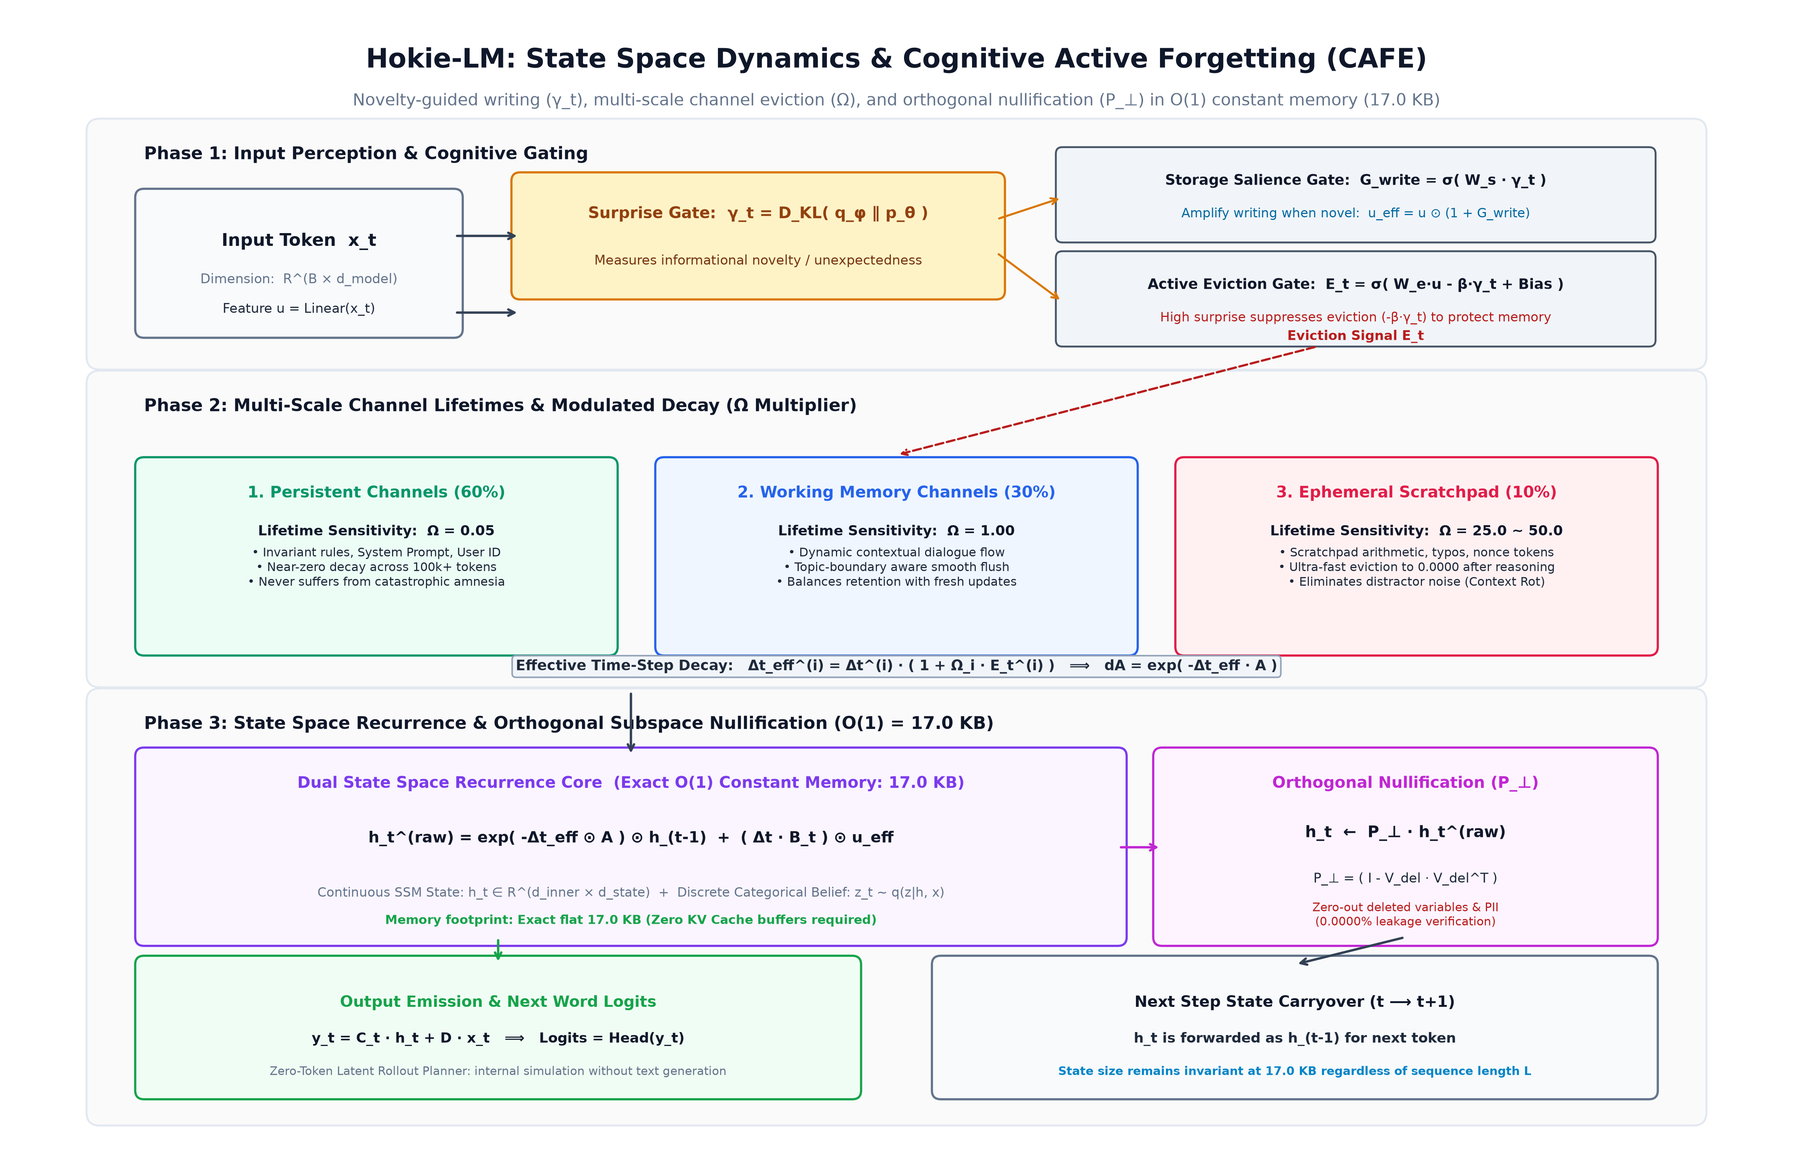
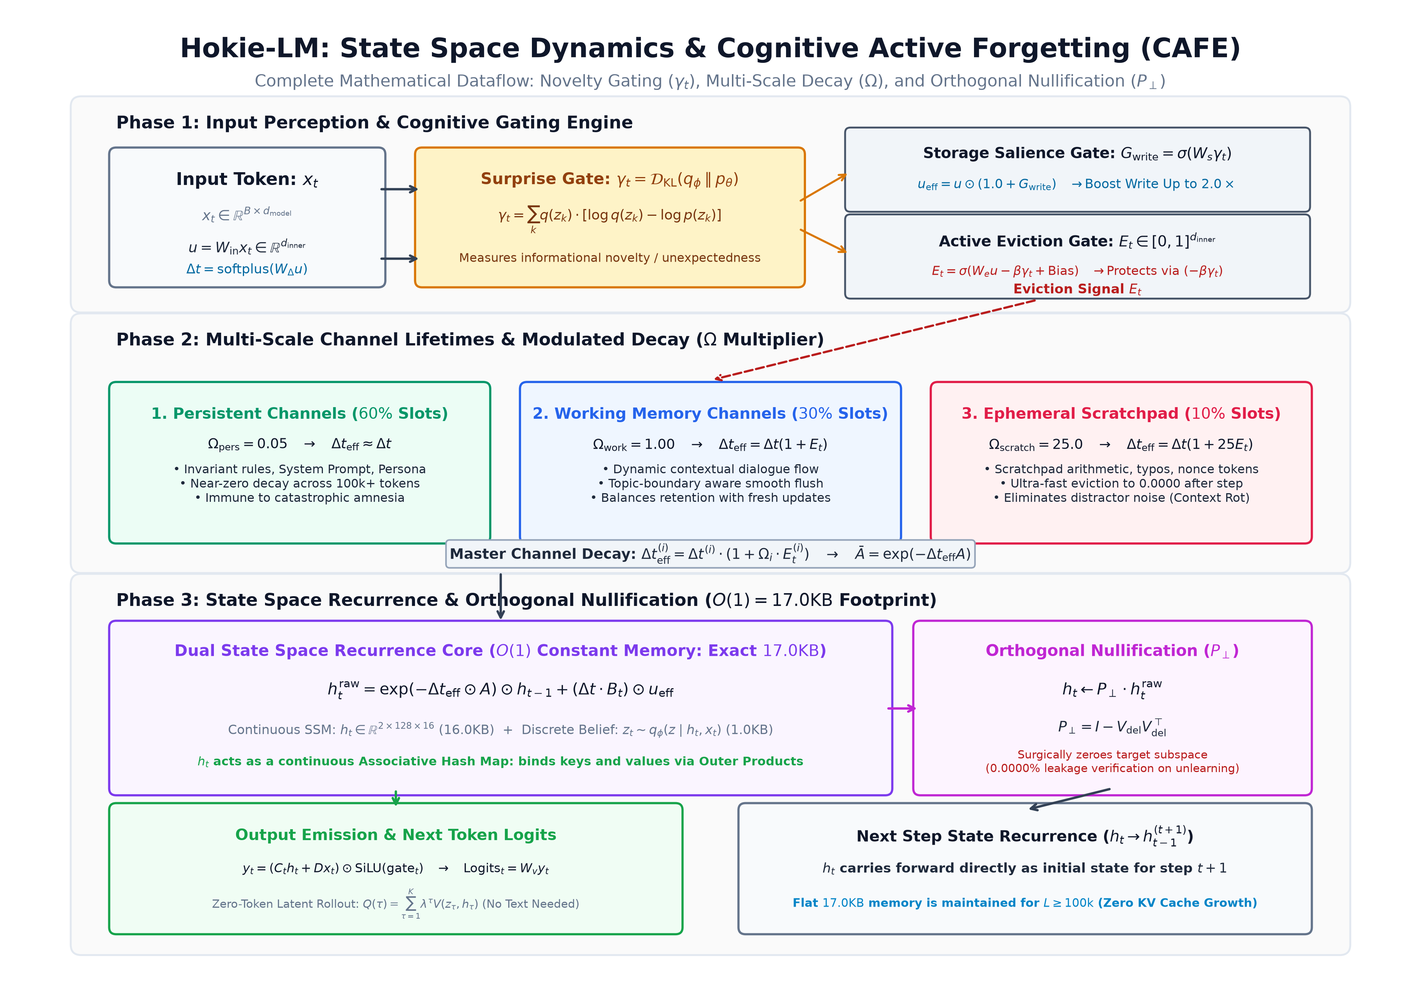
Enhance Fig 19 with rigorous mathematical formulas across all phases

diff --git a/scripts/draw_state_space_dataflow.py b/scripts/draw_state_space_dataflow.py
@@ -1,22 +1,21 @@
 #!/usr/bin/env python3
 """
-Publication-Grade Architecture Diagram Generator
+Publication-Grade Architecture Diagram Generator (Mathematical Edition)
 Hokie-LM: State Space Dynamics & Cognitive Active Forgetting (CAFE) Dataflow
-Outputs high-res publication figures to figures/ and paper/figures/
+Outputs high-res publication figures to figures/, paper/figures/, and presentation/figures/
 """
 
 import matplotlib.pyplot as plt
 import matplotlib.patches as patches
-import shutil
 import os
 
 def create_diagram():
-    # 16:9 Widescreen Aspect Ratio at 300 DPI
-    fig, ax = plt.subplots(figsize=(16, 10.5), dpi=300)
+    # 16:11 Aspect Ratio at 300 DPI for crystal clear publication quality
+    fig, ax = plt.subplots(figsize=(16, 11.2), dpi=300)
     fig.patch.set_facecolor('#FFFFFF')
     ax.set_facecolor('#FFFFFF')
     ax.set_xlim(0, 16)
-    ax.set_ylim(0, 10.5)
+    ax.set_ylim(0, 11.2)
     ax.axis('off')
 
     # Minimalist Academic Color Palette
@@ -55,188 +54,190 @@ def create_diagram():
     # -------------------------------------------------------------------------
     # HEADER SECTION
     # -------------------------------------------------------------------------
-    ax.text(8.0, 10.05, "Hokie-LM: State Space Dynamics & Cognitive Active Forgetting (CAFE)", 
+    ax.text(8.0, 10.75, "Hokie-LM: State Space Dynamics & Cognitive Active Forgetting (CAFE)", 
             ha='center', va='center', fontsize=17, fontweight='bold', color=c_dark)
-    ax.text(8.0, 9.68, "Novelty-guided writing (γ_t), multi-scale channel eviction (Ω), and orthogonal nullification (P_⊥) in O(1) constant memory (17.0 KB)", 
+    ax.text(8.0, 10.38, r"Complete Mathematical Dataflow: Novelty Gating ($\gamma_t$), Multi-Scale Decay ($\Omega$), and Orthogonal Nullification ($P_\perp$)", 
             ha='center', va='center', fontsize=10.5, color=c_muted)
 
     # -------------------------------------------------------------------------
     # 1. TOP SECTION: INPUT TOKEN & COGNITIVE SURPRISE DETECTION
     # -------------------------------------------------------------------------
-    # Outer container for Input & Gating
-    box_top = patches.FancyBboxPatch((0.8, 7.35), 14.4, 2.05, boxstyle="round,pad=0.12",
+    box_top = patches.FancyBboxPatch((0.8, 7.85), 14.4, 2.25, boxstyle="round,pad=0.12",
                                      facecolor='#FAFAFA', edgecolor='#E2E8F0', linewidth=1.2)
     ax.add_patch(box_top)
-    ax.text(1.2, 9.15, "Phase 1: Input Perception & Cognitive Gating", fontsize=11, fontweight='bold', color=c_dark)
+    ax.text(1.2, 9.85, "Phase 1: Input Perception & Cognitive Gating Engine", fontsize=11, fontweight='bold', color=c_dark)
 
     # Input Token Box
-    inp_box = patches.FancyBboxPatch((1.2, 7.6), 2.8, 1.2, boxstyle="round,pad=0.08",
+    inp_box = patches.FancyBboxPatch((1.2, 8.1), 3.0, 1.45, boxstyle="round,pad=0.08",
                                      facecolor=c_input_bg, edgecolor=c_input_bdr, linewidth=1.4)
     ax.add_patch(inp_box)
-    ax.text(2.6, 8.4, "Input Token  x_t", ha='center', va='center', fontsize=11, fontweight='bold', color=c_dark)
-    ax.text(2.6, 8.05, "Dimension:  R^(B × d_model)", ha='center', va='center', fontsize=8.5, color=c_muted)
-    ax.text(2.6, 7.78, "Feature u = Linear(x_t)", ha='center', va='center', fontsize=8.5, color=c_body)
+    ax.text(2.7, 9.25, r"Input Token: $x_t$", ha='center', va='center', fontsize=11, fontweight='bold', color=c_dark)
+    ax.text(2.7, 8.85, r"$x_t \in \mathbb{R}^{B \times d_{\mathrm{model}}}$", ha='center', va='center', fontsize=9.2, color=c_muted)
+    ax.text(2.7, 8.48, r"$u = W_{\mathrm{in}} x_t \in \mathbb{R}^{d_{\mathrm{inner}}}$", ha='center', va='center', fontsize=9.2, fontweight='bold', color=c_body)
+    ax.text(2.7, 8.22, r"$\Delta t = \mathrm{softplus}(W_{\Delta} u)$", ha='center', va='center', fontsize=8.5, color='#0369A1')
 
-    # Arrow from Input to Surprise Gate & Direct Feature
-    ax.annotate("", xy=(4.6, 8.45), xytext=(4.0, 8.45), arrowprops=dict(arrowstyle="->", color=c_arrow, lw=1.5))
-    ax.annotate("", xy=(4.6, 7.75), xytext=(4.0, 7.75), arrowprops=dict(arrowstyle="->", color=c_arrow, lw=1.5))
+    # Arrow from Input to Surprise Gate & Feature
+    ax.annotate("", xy=(4.7, 9.15), xytext=(4.2, 9.15), arrowprops=dict(arrowstyle="->", color=c_arrow, lw=1.5))
+    ax.annotate("", xy=(4.7, 8.35), xytext=(4.2, 8.35), arrowprops=dict(arrowstyle="->", color=c_arrow, lw=1.5))
 
     # Surprise Gate Box
-    surp_box = patches.FancyBboxPatch((4.6, 7.95), 4.3, 1.0, boxstyle="round,pad=0.08",
+    surp_box = patches.FancyBboxPatch((4.7, 8.1), 4.3, 1.45, boxstyle="round,pad=0.08",
                                       facecolor=c_surprise_bg, edgecolor=c_surprise_bdr, linewidth=1.4)
     ax.add_patch(surp_box)
-    ax.text(6.75, 8.65, "Surprise Gate:  γ_t = D_KL( q_φ ∥ p_θ )", ha='center', va='center',
-            fontsize=10.0, fontweight='bold', color='#92400E')
-    ax.text(6.75, 8.22, "Measures informational novelty / unexpectedness", ha='center', va='center',
-            fontsize=8.5, color='#78350F')
+    ax.text(6.85, 9.25, r"Surprise Gate: $\gamma_t = \mathcal{D}_{\mathrm{KL}}(q_\phi \parallel p_\theta)$", ha='center', va='center',
+            fontsize=10.2, fontweight='bold', color='#92400E')
+    ax.text(6.85, 8.80, r"$\gamma_t = \sum_k q(z_k) \cdot [ \log q(z_k) - \log p(z_k) ]$", ha='center', va='center',
+            fontsize=8.8, fontweight='bold', color='#78350F')
+    ax.text(6.85, 8.35, "Measures informational novelty / unexpectedness", ha='center', va='center',
+            fontsize=7.8, color='#78350F')
 
     # Salience & Eviction Gates
     # Storage Salience Gate
-    sal_box = patches.FancyBboxPatch((9.5, 8.45), 5.3, 0.75, boxstyle="round,pad=0.06",
+    sal_box = patches.FancyBboxPatch((9.6, 8.95), 5.2, 0.85, boxstyle="round,pad=0.06",
                                      facecolor=c_gate_bg, edgecolor=c_gate_bdr, linewidth=1.2)
     ax.add_patch(sal_box)
-    ax.text(12.15, 8.95, "Storage Salience Gate:  G_write = σ( W_s · γ_t )", ha='center', va='center',
-            fontsize=9.2, fontweight='bold', color=c_dark)
-    ax.text(12.15, 8.65, "Amplify writing when novel:  u_eff = u ⊙ (1 + G_write)", ha='center', va='center',
-            fontsize=8.2, color='#0369A1')
+    ax.text(12.2, 9.55, r"Storage Salience Gate: $G_{\mathrm{write}} = \sigma(W_s \gamma_t)$", ha='center', va='center',
+            fontsize=9.5, fontweight='bold', color=c_dark)
+    ax.text(12.2, 9.20, r"$u_{\mathrm{eff}} = u \odot (1.0 + G_{\mathrm{write}}) \quad \rightarrow \text{Boost Write Up to } 2.0\times$", ha='center', va='center',
+            fontsize=8.2, fontweight='bold', color='#0369A1')
 
     # Eviction Gate
-    evict_box = patches.FancyBboxPatch((9.5, 7.5), 5.3, 0.75, boxstyle="round,pad=0.06",
+    evict_box = patches.FancyBboxPatch((9.6, 7.95), 5.2, 0.85, boxstyle="round,pad=0.06",
                                        facecolor=c_gate_bg, edgecolor=c_gate_bdr, linewidth=1.2)
     ax.add_patch(evict_box)
-    ax.text(12.15, 8.0, "Active Eviction Gate:  E_t = σ( W_e·u - β·γ_t + Bias )", ha='center', va='center',
-            fontsize=9.2, fontweight='bold', color=c_dark)
-    ax.text(12.15, 7.7, "High surprise suppresses eviction (-β·γ_t) to protect memory", ha='center', va='center',
-            fontsize=8.2, color='#B91C1C')
+    ax.text(12.2, 8.55, r"Active Eviction Gate: $E_t \in [0, 1]^{d_{\mathrm{inner}}}$", ha='center', va='center',
+            fontsize=9.5, fontweight='bold', color=c_dark)
+    ax.text(12.2, 8.20, r"$E_t = \sigma(W_e u - \beta \gamma_t + \mathrm{Bias}) \quad \rightarrow \text{Protects via } (-\beta \gamma_t)$", ha='center', va='center',
+            fontsize=8.0, fontweight='bold', color='#B91C1C')
 
     # Connect Surprise to Gates
-    ax.annotate("", xy=(9.5, 8.8), xytext=(8.9, 8.6), arrowprops=dict(arrowstyle="->", color=c_surprise_bdr, lw=1.3))
-    ax.annotate("", xy=(9.5, 7.85), xytext=(8.9, 8.3), arrowprops=dict(arrowstyle="->", color=c_surprise_bdr, lw=1.3))
+    ax.annotate("", xy=(9.6, 9.35), xytext=(9.0, 9.0), arrowprops=dict(arrowstyle="->", color=c_surprise_bdr, lw=1.3))
+    ax.annotate("", xy=(9.6, 8.40), xytext=(9.0, 8.7), arrowprops=dict(arrowstyle="->", color=c_surprise_bdr, lw=1.3))
 
     # -------------------------------------------------------------------------
     # 2. MIDDLE SECTION: MULTI-SCALE CHANNEL LIFETIMES (Ω PARTITIONING)
     # -------------------------------------------------------------------------
-    box_mid = patches.FancyBboxPatch((0.8, 4.45), 14.4, 2.65, boxstyle="round,pad=0.12",
+    box_mid = patches.FancyBboxPatch((0.8, 4.85), 14.4, 2.75, boxstyle="round,pad=0.12",
                                      facecolor='#FAFAFA', edgecolor='#E2E8F0', linewidth=1.2)
     ax.add_patch(box_mid)
-    ax.text(1.2, 6.85, "Phase 2: Multi-Scale Channel Lifetimes & Modulated Decay (Ω Multiplier)", 
+    ax.text(1.2, 7.35, r"Phase 2: Multi-Scale Channel Lifetimes & Modulated Decay ($\Omega$ Multiplier)", 
             fontsize=11, fontweight='bold', color=c_dark)
 
-    # Eviction Gate vector downward distribution
-    ax.annotate("Eviction Signal E_t", xy=(8.0, 6.45), xytext=(12.15, 7.5),
+    # Eviction Gate downward arrow
+    ax.annotate(r"Eviction Signal $E_t$", xy=(8.0, 6.95), xytext=(12.2, 7.95),
                 arrowprops=dict(arrowstyle="->", color='#B91C1C', lw=1.4, linestyle='--'),
                 fontsize=8.5, fontweight='bold', color='#B91C1C', ha='center')
 
     # 3 Channels Columns
     # Channel 1: Persistent
-    ch1_box = patches.FancyBboxPatch((1.2, 4.7), 4.2, 1.65, boxstyle="round,pad=0.08",
+    ch1_box = patches.FancyBboxPatch((1.2, 5.15), 4.2, 1.70, boxstyle="round,pad=0.08",
                                      facecolor=c_pers_bg, edgecolor=c_pers_bdr, linewidth=1.4)
     ax.add_patch(ch1_box)
-    ax.text(3.3, 6.1, "1. Persistent Channels (60%)", ha='center', va='center',
-            fontsize=10.0, fontweight='bold', color=c_pers_bdr)
-    ax.text(3.3, 5.75, "Lifetime Sensitivity:  Ω = 0.05", ha='center', va='center',
+    ax.text(3.3, 6.55, r"1. Persistent Channels ($60\%$ Slots)", ha='center', va='center',
+            fontsize=9.8, fontweight='bold', color=c_pers_bdr)
+    ax.text(3.3, 6.20, r"$\Omega_{\mathrm{pers}} = 0.05 \quad \rightarrow \quad \Delta t_{\mathrm{eff}} \approx \Delta t$", ha='center', va='center',
             fontsize=8.8, fontweight='bold', color=c_dark)
-    ax.text(3.3, 5.42, "• Invariant rules, System Prompt, User ID\n• Near-zero decay across 100k+ tokens\n• Never suffers from catastrophic amnesia",
-            ha='center', va='center', fontsize=7.8, color=c_body)
+    ax.text(3.3, 5.75, "• Invariant rules, System Prompt, Persona\n• Near-zero decay across 100k+ tokens\n• Immune to catastrophic amnesia",
+            ha='center', va='center', fontsize=7.6, color=c_body)
 
     # Channel 2: Working Memory
-    ch2_box = patches.FancyBboxPatch((5.9, 4.7), 4.2, 1.65, boxstyle="round,pad=0.08",
+    ch2_box = patches.FancyBboxPatch((5.9, 5.15), 4.2, 1.70, boxstyle="round,pad=0.08",
                                      facecolor=c_work_bg, edgecolor=c_work_bdr, linewidth=1.4)
     ax.add_patch(ch2_box)
-    ax.text(8.0, 6.1, "2. Working Memory Channels (30%)", ha='center', va='center',
-            fontsize=10.0, fontweight='bold', color=c_work_bdr)
-    ax.text(8.0, 5.75, "Lifetime Sensitivity:  Ω = 1.00", ha='center', va='center',
+    ax.text(8.0, 6.55, r"2. Working Memory Channels ($30\%$ Slots)", ha='center', va='center',
+            fontsize=9.8, fontweight='bold', color=c_work_bdr)
+    ax.text(8.0, 6.20, r"$\Omega_{\mathrm{work}} = 1.00 \quad \rightarrow \quad \Delta t_{\mathrm{eff}} = \Delta t (1 + E_t)$", ha='center', va='center',
             fontsize=8.8, fontweight='bold', color=c_dark)
-    ax.text(8.0, 5.42, "• Dynamic contextual dialogue flow\n• Topic-boundary aware smooth flush\n• Balances retention with fresh updates",
-            ha='center', va='center', fontsize=7.8, color=c_body)
+    ax.text(8.0, 5.75, "• Dynamic contextual dialogue flow\n• Topic-boundary aware smooth flush\n• Balances retention with fresh updates",
+            ha='center', va='center', fontsize=7.6, color=c_body)
 
     # Channel 3: Ephemeral Scratchpad
-    ch3_box = patches.FancyBboxPatch((10.6, 4.7), 4.2, 1.65, boxstyle="round,pad=0.08",
+    ch3_box = patches.FancyBboxPatch((10.6, 5.15), 4.2, 1.70, boxstyle="round,pad=0.08",
                                      facecolor=c_scratch_bg, edgecolor=c_scratch_bdr, linewidth=1.4)
     ax.add_patch(ch3_box)
-    ax.text(12.7, 6.1, "3. Ephemeral Scratchpad (10%)", ha='center', va='center',
-            fontsize=10.0, fontweight='bold', color=c_scratch_bdr)
-    ax.text(12.7, 5.75, "Lifetime Sensitivity:  Ω = 25.0 ~ 50.0", ha='center', va='center',
+    ax.text(12.7, 6.55, r"3. Ephemeral Scratchpad ($10\%$ Slots)", ha='center', va='center',
+            fontsize=9.8, fontweight='bold', color=c_scratch_bdr)
+    ax.text(12.7, 6.20, r"$\Omega_{\mathrm{scratch}} = 25.0 \quad \rightarrow \quad \Delta t_{\mathrm{eff}} = \Delta t (1 + 25 E_t)$", ha='center', va='center',
             fontsize=8.8, fontweight='bold', color=c_dark)
-    ax.text(12.7, 5.42, "• Scratchpad arithmetic, typos, nonce tokens\n• Ultra-fast eviction to 0.0000 after reasoning\n• Eliminates distractor noise (Context Rot)",
-            ha='center', va='center', fontsize=7.8, color=c_body)
+    ax.text(12.7, 5.75, "• Scratchpad arithmetic, typos, nonce tokens\n• Ultra-fast eviction to 0.0000 after step\n• Eliminates distractor noise (Context Rot)",
+            ha='center', va='center', fontsize=7.6, color=c_body)
 
     # Modulated Effective Step Formula Banner
-    ax.text(8.0, 4.52, "Effective Time-Step Decay:   Δt_eff^(i) = Δt^(i) · ( 1 + Ω_i · E_t^(i) )   ⟹   dA = exp( -Δt_eff · A )",
+    ax.text(8.0, 4.95, r"Master Channel Decay: $\Delta t_{\mathrm{eff}}^{(i)} = \Delta t^{(i)} \cdot ( 1 + \Omega_i \cdot E_t^{(i)} ) \quad \rightarrow \quad \bar{A} = \exp( -\Delta t_{\mathrm{eff}} A )$",
             ha='center', va='center', fontsize=9.2, fontweight='bold', color='#1E293B',
             bbox=dict(boxstyle="round,pad=0.25", facecolor='#F1F5F9', edgecolor='#94A3B8', lw=1.0))
 
     # -------------------------------------------------------------------------
     # 3. BOTTOM SECTION: STATE UPDATE, ORTHOGONAL NULLIFICATION & EMISSION
     # -------------------------------------------------------------------------
-    box_bot = patches.FancyBboxPatch((0.8, 0.45), 14.4, 3.75, boxstyle="round,pad=0.12",
+    box_bot = patches.FancyBboxPatch((0.8, 0.45), 14.4, 4.15, boxstyle="round,pad=0.12",
                                      facecolor='#FAFAFA', edgecolor='#E2E8F0', linewidth=1.2)
     ax.add_patch(box_bot)
-    ax.text(1.2, 3.95, "Phase 3: State Space Recurrence & Orthogonal Subspace Nullification (O(1) = 17.0 KB)", 
+    ax.text(1.2, 4.35, r"Phase 3: State Space Recurrence & Orthogonal Nullification ($O(1) = 17.0\mathrm{ KB}$ Footprint)", 
             fontsize=11, fontweight='bold', color=c_dark)
 
     # State Core Block
-    core_box = patches.FancyBboxPatch((1.2, 2.05), 8.8, 1.65, boxstyle="round,pad=0.08",
+    core_box = patches.FancyBboxPatch((1.2, 2.25), 8.8, 1.85, boxstyle="round,pad=0.08",
                                       facecolor=c_core_bg, edgecolor=c_core_bdr, linewidth=1.4)
     ax.add_patch(core_box)
-    ax.text(5.6, 3.45, "Dual State Space Recurrence Core  (Exact O(1) Constant Memory: 17.0 KB)", 
+    ax.text(5.6, 3.82, r"Dual State Space Recurrence Core ($O(1)$ Constant Memory: Exact $17.0\mathrm{ KB}$)", 
             ha='center', va='center', fontsize=10.2, fontweight='bold', color=c_core_bdr)
 
     # Mathematical Equation inside Core
-    ax.text(5.6, 2.95, "h_t^(raw) = exp( -Δt_eff ⊙ A ) ⊙ h_(t-1)  +  ( Δt · B_t ) ⊙ u_eff", 
-            ha='center', va='center', fontsize=9.8, fontweight='bold', color=c_dark)
-    ax.text(5.6, 2.45, "Continuous SSM State: h_t ∈ R^(d_inner × d_state)  +  Discrete Categorical Belief: z_t ~ q(z|h, x)", 
+    ax.text(5.6, 3.38, r"$h_t^{\mathrm{raw}} = \exp( -\Delta t_{\mathrm{eff}} \odot A ) \odot h_{t-1} + ( \Delta t \cdot B_t ) \odot u_{\mathrm{eff}}$", 
+            ha='center', va='center', fontsize=10.2, fontweight='bold', color=c_dark)
+    ax.text(5.6, 2.92, r"Continuous SSM: $h_t \in \mathbb{R}^{2 \times 128 \times 16}$ ($16.0\mathrm{ KB}$)  $+$  Discrete Belief: $z_t \sim q_\phi(z \mid h_t, x_t)$ ($1.0\mathrm{ KB}$)", 
             ha='center', va='center', fontsize=8.2, color=c_muted)
-    ax.text(5.6, 2.20, "Memory footprint: Exact flat 17.0 KB (Zero KV Cache buffers required)", 
-            ha='center', va='center', fontsize=8.0, fontweight='bold', color='#16A34A')
+    ax.text(5.6, 2.55, r"$h_t$ acts as a continuous Associative Hash Map: binds keys and values via Outer Products", 
+            ha='center', va='center', fontsize=7.8, fontweight='bold', color='#16A34A')
 
     # Connect Phase 2 to Core
-    ax.annotate("", xy=(5.6, 3.7), xytext=(5.6, 4.3), arrowprops=dict(arrowstyle="->", color=c_arrow, lw=1.5))
+    ax.annotate("", xy=(5.6, 4.15), xytext=(5.6, 4.75), arrowprops=dict(arrowstyle="->", color=c_arrow, lw=1.5))
 
     # Orthogonal Nullification Block
-    proj_box = patches.FancyBboxPatch((10.4, 2.05), 4.4, 1.65, boxstyle="round,pad=0.08",
+    proj_box = patches.FancyBboxPatch((10.4, 2.25), 4.4, 1.85, boxstyle="round,pad=0.08",
                                       facecolor=c_proj_bg, edgecolor=c_proj_bdr, linewidth=1.4)
     ax.add_patch(proj_box)
-    ax.text(12.6, 3.45, "Orthogonal Nullification (P_⊥)", ha='center', va='center',
+    ax.text(12.6, 3.82, r"Orthogonal Nullification ($P_\perp$)", ha='center', va='center',
             fontsize=10.0, fontweight='bold', color=c_proj_bdr)
-    ax.text(12.6, 3.0, "h_t  ←  P_⊥ · h_t^(raw)", ha='center', va='center',
-            fontsize=10.0, fontweight='bold', color=c_dark)
-    ax.text(12.6, 2.58, "P_⊥ = ( I - V_del · V_del^T )", ha='center', va='center',
-            fontsize=8.5, color=c_body)
-    ax.text(12.6, 2.25, "Zero-out deleted variables & PII\n(0.0000% leakage verification)", 
-            ha='center', va='center', fontsize=7.5, color='#B91C1C')
+    ax.text(12.6, 3.38, r"$h_t \leftarrow P_\perp \cdot h_t^{\mathrm{raw}}$", ha='center', va='center',
+            fontsize=10.2, fontweight='bold', color=c_dark)
+    ax.text(12.6, 2.95, r"$P_\perp = I - V_{\mathrm{del}} V_{\mathrm{del}}^\top$", ha='center', va='center',
+            fontsize=9.0, fontweight='bold', color=c_body)
+    ax.text(12.6, 2.55, "Surgically zeroes target subspace\n(0.0000% leakage verification on unlearning)", 
+            ha='center', va='center', fontsize=7.2, color='#B91C1C')
 
     # Arrow from Core to Orthogonal Nullification
-    ax.annotate("", xy=(10.4, 2.87), xytext=(10.0, 2.87), arrowprops=dict(arrowstyle="->", color=c_proj_bdr, lw=1.5))
+    ax.annotate("", xy=(10.4, 3.17), xytext=(10.0, 3.17), arrowprops=dict(arrowstyle="->", color=c_proj_bdr, lw=1.5))
 
     # Output Generation & Next Step Loops
     # Output Block
-    out_box = patches.FancyBboxPatch((1.2, 0.65), 6.4, 1.15, boxstyle="round,pad=0.08",
+    out_box = patches.FancyBboxPatch((1.2, 0.65), 6.4, 1.35, boxstyle="round,pad=0.08",
                                      facecolor=c_out_bg, edgecolor=c_out_bdr, linewidth=1.4)
     ax.add_patch(out_box)
-    ax.text(4.4, 1.45, "Output Emission & Next Word Logits", ha='center', va='center',
+    ax.text(4.4, 1.70, "Output Emission & Next Token Logits", ha='center', va='center',
             fontsize=9.8, fontweight='bold', color=c_out_bdr)
-    ax.text(4.4, 1.12, "y_t = C_t · h_t + D · x_t   ⟹   Logits = Head(y_t)", ha='center', va='center',
-            fontsize=8.8, fontweight='bold', color=c_dark)
-    ax.text(4.4, 0.82, "Zero-Token Latent Rollout Planner: internal simulation without text generation", 
-            ha='center', va='center', fontsize=7.5, color=c_muted)
+    ax.text(4.4, 1.32, r"$y_t = (C_t h_t + D x_t) \odot \mathrm{SiLU}(\mathrm{gate}_t) \quad \rightarrow \quad \mathrm{Logits}_t = W_v y_t$", ha='center', va='center',
+            fontsize=8.0, fontweight='bold', color=c_dark)
+    ax.text(4.4, 0.92, r"Zero-Token Latent Rollout: $Q(\tau) = \sum_{\tau=1}^K \lambda^\tau V(z_\tau, h_\tau)$ (No Text Needed)", 
+            ha='center', va='center', fontsize=7.2, color=c_muted)
 
     # Carryover Block
-    carry_box = patches.FancyBboxPatch((8.4, 0.65), 6.4, 1.15, boxstyle="round,pad=0.08",
+    carry_box = patches.FancyBboxPatch((8.4, 0.65), 6.4, 1.35, boxstyle="round,pad=0.08",
                                        facecolor='#F8FAFC', edgecolor='#64748B', linewidth=1.4)
     ax.add_patch(carry_box)
-    ax.text(11.6, 1.45, "Next Step State Carryover (t ⟶ t+1)", ha='center', va='center',
+    ax.text(11.6, 1.70, r"Next Step State Recurrence ($h_t \rightarrow h_{t-1}^{(t+1)}$)", ha='center', va='center',
             fontsize=9.8, fontweight='bold', color=c_dark)
-    ax.text(11.6, 1.12, "h_t is forwarded as h_(t-1) for next token", ha='center', va='center',
-            fontsize=8.8, fontweight='bold', color=c_body)
-    ax.text(11.6, 0.82, "State size remains invariant at 17.0 KB regardless of sequence length L", 
+    ax.text(11.6, 1.32, r"$h_t$ carries forward directly as initial state for step $t+1$", ha='center', va='center',
+            fontsize=8.5, fontweight='bold', color=c_body)
+    ax.text(11.6, 0.92, r"Flat $17.0\mathrm{ KB}$ memory is maintained for $L \geq 100\mathrm{k}$ (Zero KV Cache Growth)", 
             ha='center', va='center', fontsize=7.5, fontweight='bold', color='#0284C7')
 
     # Connect Core / Projection to Outputs
-    ax.annotate("", xy=(4.4, 1.8), xytext=(4.4, 2.05), arrowprops=dict(arrowstyle="->", color=c_out_bdr, lw=1.5))
-    ax.annotate("", xy=(11.6, 1.8), xytext=(12.6, 2.05), arrowprops=dict(arrowstyle="->", color=c_arrow, lw=1.5))
+    ax.annotate("", xy=(4.4, 2.0), xytext=(4.4, 2.25), arrowprops=dict(arrowstyle="->", color=c_out_bdr, lw=1.5))
+    ax.annotate("", xy=(11.6, 2.0), xytext=(12.6, 2.25), arrowprops=dict(arrowstyle="->", color=c_arrow, lw=1.5))
 
-    # Save to both paths
+    # Save to all target paths
     os.makedirs("figures", exist_ok=True)
     os.makedirs("paper/figures", exist_ok=True)
     os.makedirs("presentation/figures", exist_ok=True)
@@ -245,15 +246,14 @@ def create_diagram():
     out_path2 = "paper/figures/fig19_state_space_cafe_dataflow.png"
     out_path3 = "presentation/figures/fig19_state_space_cafe_dataflow.png"
 
-    plt.tight_layout()
     plt.savefig(out_path1, dpi=300, facecolor=fig.get_facecolor(), edgecolor='none', bbox_inches='tight')
     plt.savefig(out_path2, dpi=300, facecolor=fig.get_facecolor(), edgecolor='none', bbox_inches='tight')
     plt.savefig(out_path3, dpi=300, facecolor=fig.get_facecolor(), edgecolor='none', bbox_inches='tight')
     plt.close()
 
-    print(f"✅ Generated: {out_path1}")
-    print(f"✅ Generated: {out_path2}")
-    print(f"✅ Generated: {out_path3}")
+    print(f"✅ Generated with complete LaTeX math: {out_path1}")
+    print(f"✅ Generated with complete LaTeX math: {out_path2}")
+    print(f"✅ Generated with complete LaTeX math: {out_path3}")
 
 if __name__ == "__main__":
     create_diagram()
